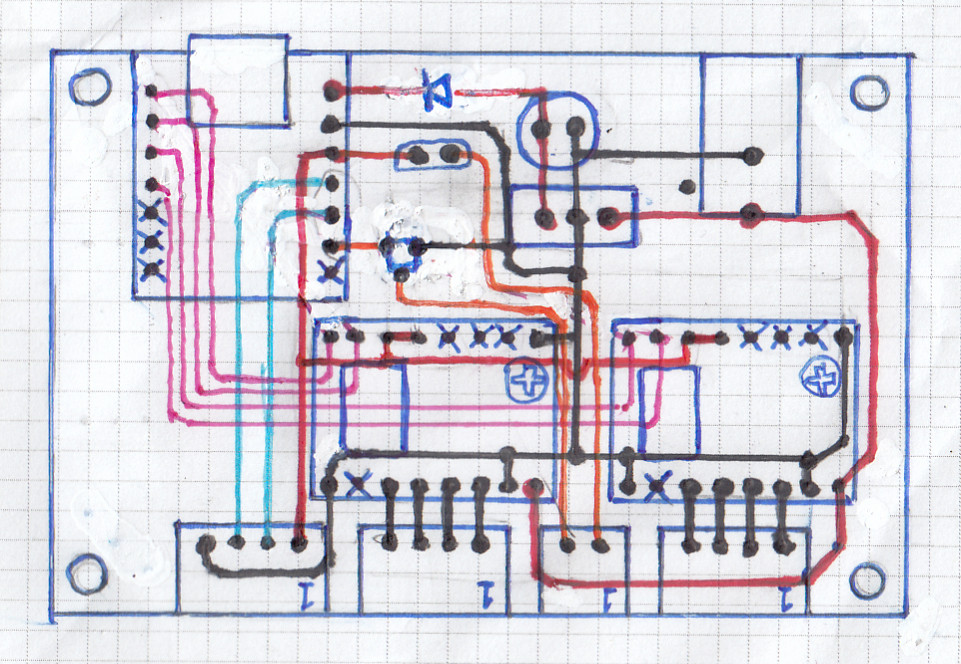
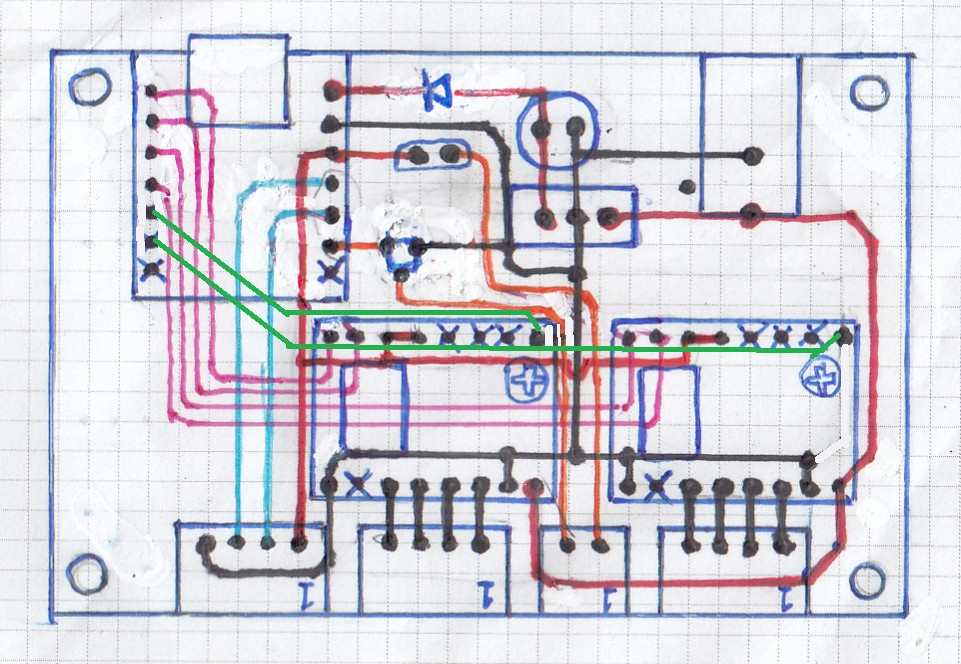
add enable control of steppers

Changed region(s): [[0.1249, 0.3012, 0.9053, 0.6928], [0.0312, 0.6928, 0.0624, 0.7229]]

diff --git a/firm/ArmillarySphere/src/ArmillarySphere.cpp b/firm/ArmillarySphere/src/ArmillarySphere.cpp
@@ -12,6 +12,8 @@
 #define MOTOR1_STP   5
 #define MOTOR2_DIR   16
 #define MOTOR2_STP   17
+#define MOTOR1_EN    12
+#define MOTOR2_EN    13
 #define LED_SUN      26
 #define HALL_SENSOR1 35
 #define HALL_SENSOR2 36
@@ -21,6 +23,8 @@
 #define MOTOR1_STP   D1
 #define MOTOR2_DIR   D2
 #define MOTOR2_STP   D3
+#define MOTOR1_EN    D4
+#define MOTOR2_EN    D5
 #define LED_SUN      D8
 #define HALL_SENSOR1 D9
 #define HALL_SENSOR2 D10
@@ -30,8 +34,8 @@
 #define STEP_PER_REV (64*32*1)
 
 // ステッピングモータ
-DRV8825 motor1(MOTOR1_DIR, MOTOR1_STP, 1, STEP_PER_REV);
-DRV8825 motor2(MOTOR2_DIR, MOTOR2_STP, 1, STEP_PER_REV);
+DRV8825 motor1(MOTOR1_DIR, MOTOR1_STP, 1, STEP_PER_REV, MOTOR1_EN);
+DRV8825 motor2(MOTOR2_DIR, MOTOR2_STP, 1, STEP_PER_REV, MOTOR2_EN);
 
 // 初期化フラグ
 static bool initializing = false;
@@ -145,6 +149,8 @@ static void initPosition()
     hall[1] = digitalRead(HALL_SENSOR2);
     
     // もしホールセンサがHIGHなら少し逆転しておく
+    motor1.enable();
+    motor2.enable();
     if(hall[0] == HIGH) motor1.rotateT(-30, 0.5);
     if(hall[1] == HIGH) motor2.rotateT(-30, 0.5);
     while(!motor1.isIdle() || !motor2.isIdle()){
@@ -211,6 +217,9 @@ static void initPosition()
         // BLEタスクの実行 TODO
         bleCommand.task();
     }
+    motor1.disable();
+    motor2.disable();
+
     bleCommand.setBusy(false);
 
     ui.setMode(MODE_NORMAL);
@@ -240,6 +249,8 @@ static bool onCommandStop()
     
     motor1.stop();
     motor2.stop();
+    motor1.disable();
+    motor2.disable();
     return true;
 }
 
@@ -256,6 +267,7 @@ static bool onCommandRotation()
     }
     ui.setMode(MODE_ROTATION);
     
+    motor1.enable();
     motor1.rotateV(V_MAX);
     return true;
 }
@@ -273,6 +285,7 @@ static bool onCommandRevolution()
     }
     ui.setMode(MODE_REVOLUTION);
     
+    motor2.enable();
     motor2.rotateV(V_MAX);
     return true;
 }
@@ -290,6 +303,8 @@ static bool onCommandDemo1()
     }
     ui.setMode(MODE_DEMO1);
     
+    motor1.enable();
+    motor2.enable();
     motor1.rotateV(V_MAX);
     motor2.rotateV(V_MAX);
     return true;
@@ -308,6 +323,8 @@ static bool onCommandDemo2()
     }
     ui.setMode(MODE_DEMO2);
     
+    motor1.enable();
+    motor2.enable();
     motor1.rotateV(V_MAX);
     motor2.rotateV(V_MAX / 4);
     return true;
@@ -375,6 +392,8 @@ static bool onCommandLonTime()
     DEBUG_PRINT("T = %f\n", T);
     
     // モータの回転指令
+    motor1.enable();
+    motor2.enable();
     motor1.rotateT(d_theta1, T);
     motor2.rotateT(d_theta2, T);
 
@@ -470,13 +489,20 @@ void loop()
     ui.task();
 
     // モータがアイドル状態かチェック
-    static bool motors_idle_old = true;
-    bool motors_idle = motor1.isIdle() && motor2.isIdle();
-    if(motors_idle && !motors_idle_old){
-        Serial.println("Motors rotated!");
+    DRV8825 *motor[2] = {&motor1, &motor2};
+    static bool motor_idle_prev[2] = {true, true};
+    bool motors_idle[2];
+    for(int i=0; i<2; i++){
+        motors_idle[i] = motor[i]->isIdle();
+
+        if(motors_idle[i] && !motor_idle_prev[i]){
+            motor[i]->disable();
+            Serial.printf("Motor %d stopped!\n", i+1);
+        }
+        motor_idle_prev[i] = motors_idle[i];
     }
-    motors_idle_old = motors_idle;
-    bleCommand.setBusy(!motors_idle);
+    bool all_idle = motors_idle[0] && motors_idle[1];
+    bleCommand.setBusy(!all_idle);
     
     // 初期位置出し
     if(initializing){

diff --git a/firm/ArmillarySphere/src/DRV8825.h b/firm/ArmillarySphere/src/DRV8825.h
@@ -8,14 +8,17 @@ class DRV8825 : public BaseStepper
 private:
     const int PIN_DIR;  // DIRピン番号
     const int PIN_STP;  // STPピン番号
+    const int PIN_EN;   // ENABLEピン番号 (負論理)
     
 public:
     // コンストラクタ
-    DRV8825(int dir, int stp, int pol, int spr) : 
-        BaseStepper(pol, spr), PIN_DIR(dir), PIN_STP(stp){}
+    DRV8825(int dir, int stp, int pol, int spr, int en=-1) : 
+        BaseStepper(pol, spr), PIN_DIR(dir), PIN_STP(stp), PIN_EN(en){}
 
     // モータドライバICごとに実装するメソッド
     void begin();                    // 初期化
     void takeStep(int dir, int stp); // ステップ動作
     int getTime();                   // システム時刻の取得
+    void enable();                   // モータ出力有効化
+    void disable();                  // モータ出力無効化
 };

diff --git a/firm/ArmillarySphere/src/DRV8825.cpp b/firm/ArmillarySphere/src/DRV8825.cpp
@@ -11,6 +11,10 @@ void DRV8825::begin()
     pinMode(PIN_STP, OUTPUT);
     digitalWrite(PIN_DIR, LOW);
     digitalWrite(PIN_STP, LOW);
+    if(PIN_EN != -1){
+        pinMode(PIN_EN, OUTPUT);
+        digitalWrite(PIN_EN, HIGH); // 負論理
+    }
 }
 
 // ステップ動作
@@ -27,4 +31,20 @@ void DRV8825::takeStep(int dir, int stp)
 int DRV8825::getTime()
 {
     return micros();
+}
+
+// モータ出力有効化
+void DRV8825::enable()
+{
+    if(PIN_EN != -1){
+        digitalWrite(PIN_EN, LOW); // 負論理
+    }
+}
+
+// モータ出力無効化
+void DRV8825::disable()
+{
+    if(PIN_EN != -1){
+        digitalWrite(PIN_EN, HIGH); // 負論理
+    }
 }

diff --git a/firm/ArmillarySphere/src/BaseStepper.h b/firm/ArmillarySphere/src/BaseStepper.h
@@ -19,6 +19,8 @@ public:
     virtual void begin()                    = 0; // 初期化
     virtual void takeStep(int dir, int stp) = 0; // ステップ動作
     virtual int getTime()                   = 0; // システム時刻の取得
+    virtual void enable()                   = 0; // モータ出力有効化
+    virtual void disable()                  = 0; // モータ出力無効化
     
     // 変数の初期化
     void init();
